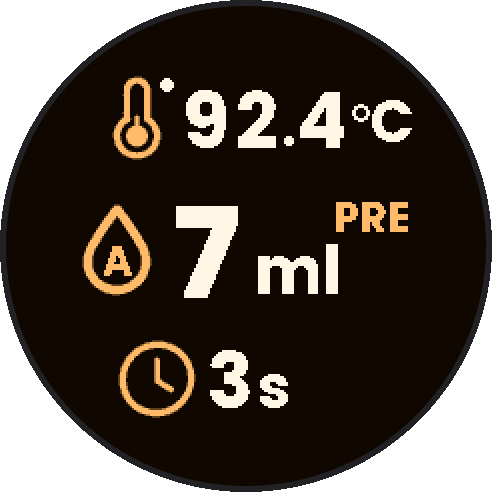
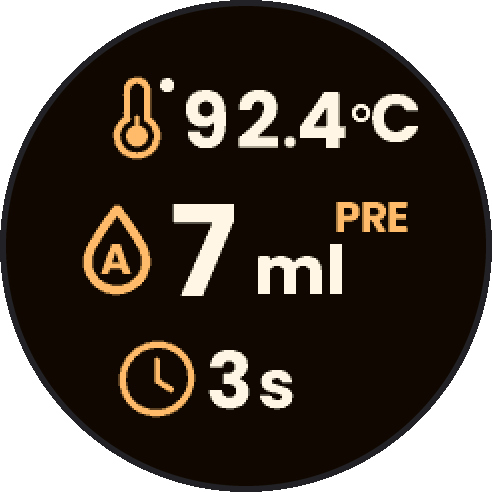
Docs: anti-aliased fonts, transitions, loss defaults; pictures regenerated

diff --git a/docs/DOCUMENTATION.md b/docs/DOCUMENTATION.md
@@ -129,6 +129,25 @@ limit applies the stop delay is not learned (see `CLAUDE.md`).
 > These pictures are not mock-ups: they are drawn by the real display code, on a computer
 > (see [Tests](#-tests), `./tools/render_screens.sh`).
 
+### Fonts and transitions
+
+All the text of the screen is drawn in **Poppins Bold, anti-aliased**: every glyph is a mask of 4 levels of opacity (2 bits per
+pixel), blended with the background, so the edges are smooth on the round screen. The masks are generated by
+`tools/generate_fonts.py` into `src/display/Fonts.h` (the font file, SIL Open Font License, is not in the repository).
+
+The screen moves a little when something changes, and never blinks:
+
+- **Seconds**: during an extraction the digits of the duration roll (the old digit leaves upward, the new one comes up from below,
+  `ROLL_DURATION_MS` = 260 ms). The volume does not roll: its digits are replaced at once.
+- **Change of parameter** (double push): the rows whose look changes (size of the digits, tag, unit) fade out in `FADE_OUT_MS` = 60 ms,
+  then the new look fades in in `FADE_IN_MS` = 550 ms, from `FADE_IN_START_PERCENT` = 20 % of the brightness to 100 % (ease-out). Each
+  look is drawn at its own size and place: no zoom, the old and the new are never drawn together. When the selection goes to another
+  row (temperature, volume, duration), the row that was selected goes back to its normal size at once.
+- **Change of mode** (short push): the drop, its letter A / M and the rows that change fade the same way.
+
+A fade is drawn at most every `FADE_FRAME_MS` = 30 ms and the main loop goes on meanwhile (the encoder, the heater and the
+safeties are never waiting for the screen). Setting the durations to 0 gives instant changes.
+
 ---
 
 ## 🎛 Using the machine
@@ -336,7 +355,7 @@ goes to the drip tray when the valve opens at the end (backflush). The sum is th
 volume in the cup = (In − Out) − loss          (never below 0)
 ```
 
-The extraction stops when this reaches the target volume. The loss starts at 30 ml and is a **setting** that
+The extraction stops when this reaches the target volume. The loss starts at 50 ml (`DEFAULT_LOSS_ML`) and is a **setting** that
 the machine corrects by itself:
 
 1. brew in AUTO, and weigh the cup (1 g = 1 ml),
@@ -344,7 +363,7 @@ the machine corrects by itself:
 3. a double push validates, and goes back to the volume (the rest of the cycle is skipped).
 
 ```
-new loss = loss + 0.5 × (measured loss − loss)        kept between 0 and 200 ml, saved in the EEPROM
+new loss = loss + 0.75 × (measured loss − loss)       kept between 0 and 200 ml, saved in the EEPROM
 ```
 
 CAL is offered only after an AUTO extraction that ended normally and gave at least 10 ml. If you do not
@@ -535,7 +554,9 @@ Every pin, limit, timing and tuning constant is in `src/Config.h`, with comments
 | `TEMPERATURE_OFFSET` | 5 | The probe is hotter than the water at the grouphead of this machine, °C |
 | `DEFAULT_VOLUME` | 40 | Target volume, ml (`VOLUME_MAX` 99) |
 | `DEFAULT_PREINFUSION_ML` / `_WAIT_SECONDS` / `DEFAULT_FLUSH_SECONDS` | 10 / 5 / 5 | AUTO defaults (`WAIT` and `FLUSH` are limited to 9: one digit next to their tag) |
-| `DEFAULT_LOSS_ML` | 30 | Water that does not end in the cup |
+| `DEFAULT_LOSS_ML` / `LOSS_MAX_ML` | 50 / 200 | Water that does not end in the cup: the first value, and the limit of what CAL can set |
+| `CALIBRATION_GAIN` | 0.75 | How far a weighing moves the loss (1 = it replaces it) |
+| `ROLL_DURATION_MS` / `FADE_OUT_MS` / `FADE_IN_MS` | 260 / 60 / 550 | Rolling seconds, fade out and fade in of a change of parameter or of mode (0 = instant, see [Fonts and transitions](#fonts-and-transitions)) |
 | `PID_KP` / `PID_KI` / `PID_KD` | 40 / 0.3 / 500 | PID gains, over a 1 s window |
 | `STANDBY_MINUTES` | 30 | 0 = no standby |
 | `WELCOME_MS` | 2000 | The welcome picture stays this long at start-up, ms (0 = no picture, at start-up nor in standby: about 1.2 KB of flash back, 40 bytes more than master then) |
@@ -563,7 +584,7 @@ pio run -t upload
 What is specific to the board is in `src/platform/` (`Platform.h`, implemented by `PlatformRenesas.cpp`): the external
 interrupts that count the pulses of the flow sensors and the watchdog (`WATCHDOG_MS` in `Config.h`).
 `src/platform/nano_r4/wiring_private.h` is an empty header that the display library needs and the R4 core lacks. The R4 has
-256 KB of flash and 32 KB of RAM (the firmware uses about 70 KB and 3.7 KB). Upload by the USB port: if the upload cannot find the
+256 KB of flash and 32 KB of RAM (the firmware uses about 90 KB and 4.3 KB). Upload by the USB port: if the upload cannot find the
 board, put it in its bootloader by a double push on RESET, then upload again.
 
 The project follows the Arduino sketch layout (`coffee_screen.ino` and the `src/` folder). Libraries:
@@ -597,13 +618,19 @@ mock of the flow sensor in `test/mock`. The Arduino API that all the tests share
 `EEPROM`) is in `test/stubs/ArduinoStubs.cpp`, and `test/stubs/TestSupport.h` gives them `CHECK`. The
 `test_sim_*` tests use a flow simulator (`test/mock/FlowSimulator.h`, the simulated water follows the pump relay).
 
+The screen animations have their own tests: `test_roll` (the rolling digits), `test_fade` (fade out / fade in of a parameter or of
+the mode, frame by frame), `test_fade_random` (random pushes, then the screen must equal the one of quiet pushes) and
+`test_fade_machine` (the same during a whole extraction and its flush, against a full redraw). The tests of the logic of the
+screen are built without animation (`run.sh` passes `-DROLL_*_MS=0 -DFADE_*_MS=0`), and the tests that follow the cup volume number
+by number are built with a loss of 30 ml (`-DDEFAULT_LOSS_ML=30.0f`), whatever the default of the machine is.
+
 **Continuous integration** (`.github/workflows/test.yml`), on every push: the tests, a `cppcheck` static
 analysis, and the build of the firmware for the Nano R4, which shows the flash size and fails over the RAM
 budget (`./tools/check_flash.sh`).
 
 **Screen pictures.** `./tools/render_screens.sh` draws every screen with the real display code into a frame
 buffer and writes the PNG files of `docs/images` (needs `g++` and Python with Pillow). Run it again after a
-change of the display code.
+change of the display code or of a font (`tools/generate_fonts.py`).
 
 ---
 
@@ -626,13 +653,14 @@ src/
   display/
     ScreenController       what is shown and when it is redrawn (dirty flags)
     Display                drawing on the GC9A01
-    Layout.h, Fonts.h      colours, sizes and positions; the reduced fonts
+    Layout.h               colours, sizes and positions
+    Fonts.h                the anti-aliased fonts (generated by tools/generate_fonts.py from Poppins Bold)
     IconsData.h            the icons and the welcome picture, compressed (generated from tools/icons_raw.h)
   drivers/
     CJMCU111               rotary encoder + push button (short, double, long push)
     FlowSensor             flow sensors (pin change interrupt); replaced by a mock or a simulator in the tests
 test/                      host tests (run.sh, stubs, mocks)
-tools/                     screen pictures (render_screens), icons (compress_icons, png_to_icon.ps1), size and RAM budget (check_flash)
+tools/                     screen pictures (render_screens), fonts (generate_fonts), icons (compress_icons, png_to_icon.ps1), size and RAM budget (check_flash)
 images/               the screen pictures
 .github/workflows/         continuous integration: tests, cppcheck, firmware build
 ```

diff --git a/CLAUDE.md b/CLAUDE.md
@@ -10,8 +10,8 @@ CJMCU-111 encoder, MAX31865 + PT100, PID heater, pump and 3-way valve relays, tw
 - The PlatformIO project is this folder (the repository): `platformio.ini` is here with `src_dir = .`, run `pio` from here. `pio run`
   builds the machine (env `nano_r4`, platform renesas-ra), `pio run -t upload` flashes it. If the upload cannot find the board, a double
   push on RESET puts it in its bootloader. The USB serial loses what is printed before a monitor has opened the port.
-- There is no flash budget any more (the AVR build flags, `link_flags.py` and the 30720 B limit went with the R3). Last measured: about
-  70 KB of 256 KB, 3.7 KB of RAM. `./tools/check_flash.sh` builds, shows the size and fails over 24000 B of RAM (a stack overflow
+- There is no flash budget any more (the AVR build flags, `link_flags.py` and the 30720 B limit went with the R3). Last measured (2026-11-24, anti-aliased fonts): 90 KB of 256 KB (34.4 %),
+  4.3 KB of RAM. `./tools/check_flash.sh` builds, shows the size and fails over 24000 B of RAM (a stack overflow
   corrupts the memory without any message); the CI runs it on every push.
 - What is board specific lives in `src/platform/`: `Platform.h` / `PlatformRenesas.cpp` (the external interrupts of the flow pulses, the
   watchdog `WATCHDOG_MS`). `src/platform/nano_r4/wiring_private.h` is an empty stand-in that Adafruit_GC9A01A needs. Keep the board
@@ -59,7 +59,11 @@ CJMCU-111 encoder, MAX31865 + PT100, PID heater, pump and 3-way valve relays, tw
 - File names are case-sensitive on the CI (Linux) but not on Windows: write every `#include` and every script path with
   the exact case of the file, and rename a file with `git mv` (twice for a change of case only).
 - `./tools/render_screens.sh` regenerates the PNGs of `docs/images` (README and documentation); they must stay identical after display changes
-  that are not meant to change the look.
+  that are not meant to change the look. It needs Pillow: on this machine `python3` is a Store stub, use
+  `C:\Espressif\tools\python\python` (`pip install --user pillow`, and no `-I` flag, which hides the user site).
+- Animations: `test_roll`, `test_fade`, `test_fade_random` (random pushes then settle = quiet pushes), `test_fade_machine` (a whole
+  extraction and flush against a full redraw). `run.sh` builds the logic tests without animation (`-DFADE_*=0 -DROLL_*=0`) and the tests
+  that follow the volume number by number (`test_volume`, `test_pre`, `test_manual`, `test_sim_flow`) with `-DDEFAULT_LOSS_ML=30.0f`.
 - The icons are stored compressed (`src/display/IconsData.h`, generated, do not edit). The readable source is
   `tools/icons_raw.h`; after changing it run `./tools/compress_icons.sh` (it checks that the decoded icons equal the source).
   It also holds the welcome picture (96 x 96, shown `WELCOME_MS` = 2 s at start-up): to change it, convert a PNG with
@@ -75,8 +79,16 @@ CJMCU-111 encoder, MAX31865 + PT100, PID heater, pump and 3-way valve relays, tw
 - End commit messages with: `Co-Authored-By: Claude <noreply@anthropic.com>`
 
 ## Display
-- Custom bit-packed Adafruit GFX fonts (`src/display/Fonts.h`), already reduced to the glyphs in use.
+- Anti-aliased fonts (Poppins Bold, 2 bits per pixel = 4 levels, user choice 2026-11-24) in `src/display/Fonts.h`, GENERATED by
+  `python3 tools/generate_fonts.py Poppins-Bold.ttf` (needs Pillow; the TTF is not in the repository, the URL is in the script header).
+  Do not edit `Fonts.h` by hand. The structure is Adafruit GFX (`GFXfont` / `GFXglyph`) but `Display.cpp` reads the masks itself.
+  The sizes are those of the old pixel fonts so that `Layout.h` did not change. After a change of a font run `render_screens.sh`.
 - Digits are drawn as opaque glyph blocks with fixed-width cells so a number changes without a blank moment.
+- Transitions (`ScreenController`: `Fade`, `stepFades`, `stepRolls`; timings in `Config.h`): the seconds roll (`ROLL_DURATION_MS`), the
+  volume does NOT roll (user, 2026-11-24, after trying the tens only). A change of parameter or mode fades out (`FADE_OUT_MS` 60 ms) then
+  fades in (`FADE_IN_MS` 550 ms, from `FADE_IN_START_PERCENT` 20 %), uniform for every row, the drop and its letter, no zoom, old and
+  new never drawn together. All validated by the user on the real screen; ask before changing a timing. Frames are drawn at most every
+  30 ms from `update()` (no `delay()`). The tests of the logic of the screen are built without animation (see `test/run.sh`).
 - Start-up sequence: `ScreenController::begin()` shows the welcome picture, the probe and the flow sensors start while it is
   shown, `finishWelcome()` waits for the rest of `WELCOME_MS`, clears the picture and draws the icons in the dark, then
   `update()` draws the values and `show()` lights the screen. Measured on the board: 311 ms of black screen between the
@@ -133,7 +145,8 @@ CJMCU-111 encoder, MAX31865 + PT100, PID heater, pump and 3-way valve relays, tw
   user measures the grouphead water himself to adjust it.
 - Flow sensors: In = the flow of the pump; Out = water returning through the OPV
   valve (an uncontrolled overpressure valve). Cup volume = In - Out - loss: about 24 ml stay in the puck and 5-6 ml
-  leave at the backflush when the valve opens (`DEFAULT_LOSS_ML`). Pre-infusion is controlled by volume.
+  leave at the backflush when the valve opens (`DEFAULT_LOSS_ML`, 50 ml since 2026-11-24: with a 40 ml pre-infusion the journal showed 37 to 53 ml and the loss was capped at
+  60; `LOSS_MAX_ML` is now 200 and `CALIBRATION_GAIN` 0.75). Pre-infusion is controlled by volume.
 - The heater feedforward uses the flow In - Out (`ExtractionController::inflowMlPerSec()`, since 2026-11-24, asked by the user after an
   overshoot of the temperature on a long extraction): the water that goes back through the OPV is not heated. On the journal entry
   #5 of the R4, 67 ml of 172 ml went back, 39 %, so In alone gave about 430 W too much for 46 s. This assumes that the OPV sends the
@@ -166,7 +179,7 @@ CJMCU-111 encoder, MAX31865 + PT100, PID heater, pump and 3-way valve relays, tw
 - Setting `flowLimit` (tenths of ml/s, 0 = off, 0.5 to 8.0), EEPROM 20-21 (no new magic: blank = off). Menu: AUTO only, after PRE,
   tag "LIMIT", value "2:5 ml/s" in the volume field, steps of 0.1 ml/s. Always built (the option FLOW_LIMIT of the test branch was
   removed on 2026-11-24, the user asked).
-- The "/" of "ml/s" is a glyph drawn by hand in `Fonts.h` (FontUnit '6'): the font file is not in the repository.
+- The "/" of "ml/s" is the glyph '6' of `FontUnit` (generated by `tools/generate_fonts.py`).
 - Host tests: `test/test_flow_limit.cpp` (simulated pump, the flow per click changes during the run) and
   `test/test_flow_limit_learning.cpp`. The default is 0 (no limit), `DEFAULT_FLOW_LIMIT_TENTHS`.
 - **REMINDER (pense-bete, the user may change this later):** while a flow limit applies, the stop delay (STOP_DELAY_*) is NOT learned

diff --git a/README.md b/README.md
@@ -87,6 +87,8 @@ No-water detection (the pump stops and the screen says so), maximum duration of 
 </table>
 
 > These pictures are not mock-ups: they are drawn by the real display code, on a computer (`./tools/render_screens.sh`).
+> The text is anti-aliased (Poppins Bold), and the screen fades smoothly when you change the parameter or the mode
+> ([Fonts and transitions](docs/DOCUMENTATION.md#fonts-and-transitions)).
 
 ---
 
@@ -134,7 +136,8 @@ The firmware drives a heater, a pump and a valve, so it is tested like software 
   computer with stubs of the Arduino libraries: `./test/run.sh`. Critical tests are checked by mutation: breaking the code
   must make them fail.
 - **Pixel tests**: the screen code is run against a faithful copy of the Adafruit GFX font engine, its texts are counted pixel
-  by pixel against the real library, and the pictures above are generated from it.
+  by pixel against the real library, and the pictures above are generated from it. The animations (rolling seconds, fades)
+  are tested frame by frame, and with random pushes against a full redraw.
 - **Continuous integration**: every push runs the tests, builds the firmware for the R4, checks the memory use,
   and runs cppcheck.
 
